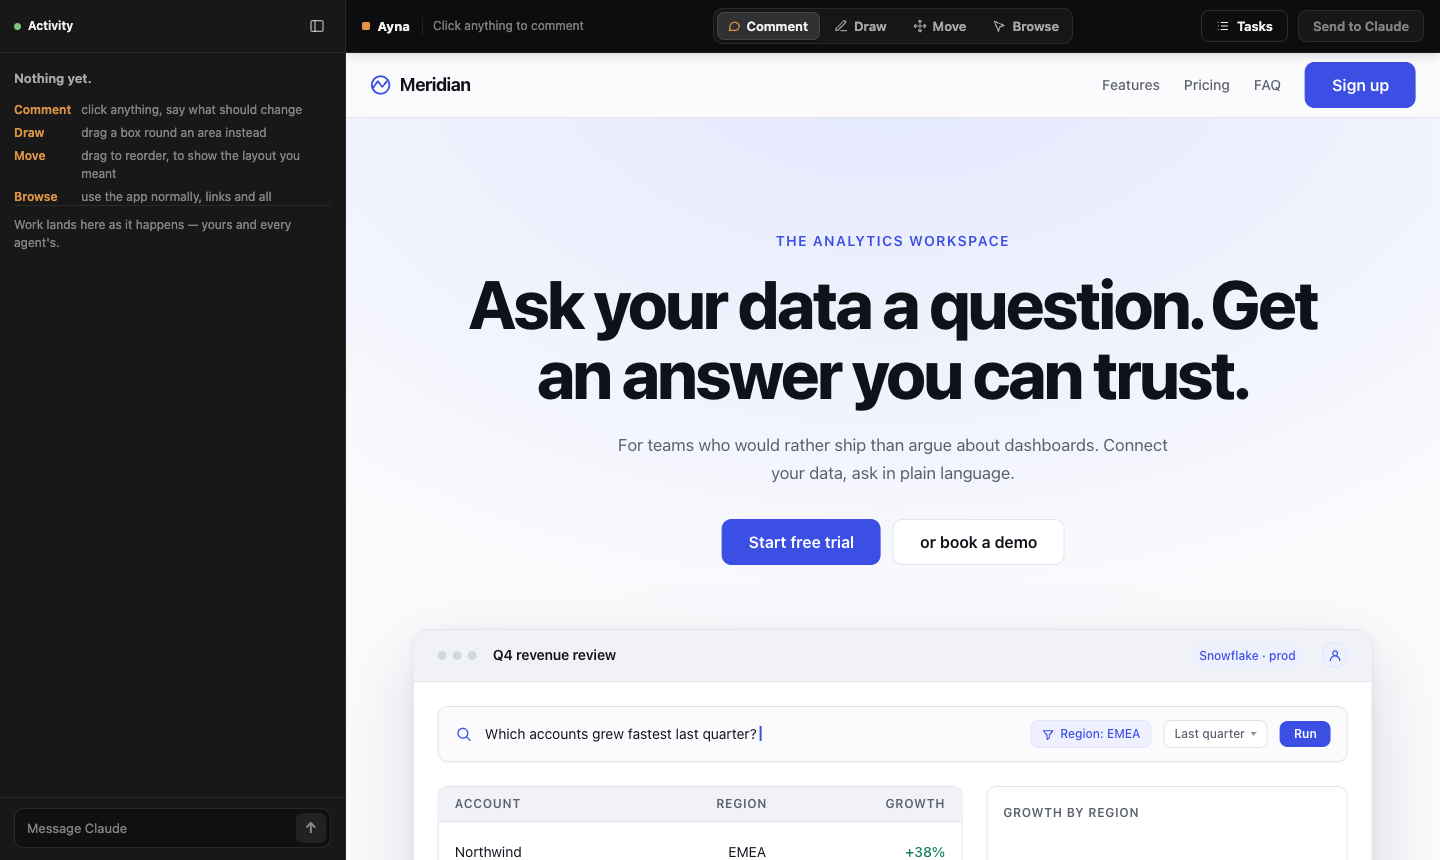
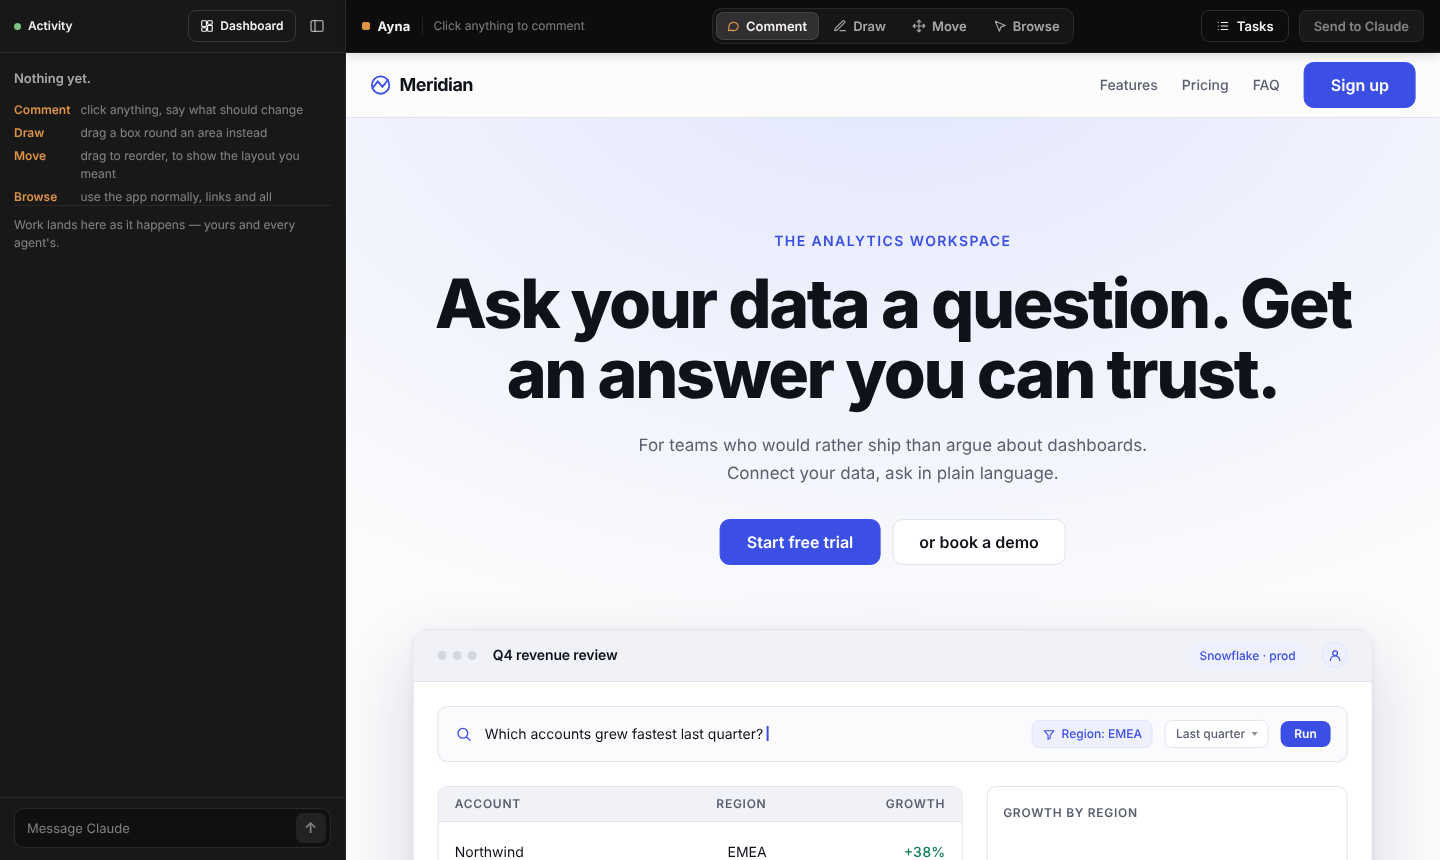
docs: the dashboard in the README, with three screenshots
The README covered `ayna dashboard` in one table row and a short step, and
showed none of it. Now it has a section of its own, in plain words: how to
open it (the review window's button, or the command), what each of its five
views is for, the two themes, and that it only reads. Three screenshots
carry it: the overview, a task sent back shown in the Light theme, and the
activity. Flow 1's step 6 and the intro point there.

The screenshots come from scripts/readme-shots.mjs like the others, out of
the same review the other shots show. The script now gives the two notes a
verdict (one approved, one sent back) and writes the dashboard from that
store. The project folder is named meridian after the demo's product,
because the dashboard puts the project's name across its top. The eight
existing shots were retaken too; they now show the Dashboard button in the
rail.

Taking them showed three things the dashboard got wrong:

- `ayna say` and `ayna preview` record their events under no window, and a
  review window shows every such event in its rail. The dashboard put them
  in a "Between reviews" box instead. It now files an untagged event under
  the window open at the time. A window never marked closed counts as open
  until half an hour after the last thing filed under it, so one that
  crashed does not adopt what is said days later.
- A closed window said so twice ("Review window closed", "Closed the
  review"). The bookkeeper's `tab-closed` is quiet now; the window's own
[…]

diff --git a/README.md b/README.md
@@ -14,6 +14,9 @@ Three ways to use it, and they share one store:
 | **Inspect** | an agent | check one region headlessly, before reporting work done |
 | **Work** | nobody | drain the queue unattended, verifying as it goes |
 
+[The dashboard](#the-dashboard) shows that store as one page: every task,
+wherever it stands.
+
 ---
 
 ## Install
@@ -160,16 +163,8 @@ judge.
 
 ### 6. See the whole project
 
-**Dashboard**, at the top of the activity rail, opens the project's dashboard in
-a tab beside the review: every task wherever it stands, what is stuck and on
-whom, which page is worst, each task's history and each window's rounds as one
-box apiece, and every agent that worked here. It refreshes itself while the
-window is open and comes back to the view you were on. The Tasks list links to
-it too.
-
-`ayna dashboard --open` writes the same page as a snapshot — one static file,
-no server, nothing changed. It comes in two themes, **Ayna** (the window's own)
-and **Light**, and remembers which you chose.
+**Dashboard**, at the top of the activity rail, opens every page's work in a tab
+beside the review — see [The dashboard](#the-dashboard).
 
 ---
 
@@ -256,6 +251,46 @@ yet*.
 
 The brain is any command — `claude -p` by default, Cursor or anything else via
 `brains` in the config.
+
+---
+
+## The dashboard
+
+The review window shows one page. The dashboard shows the whole project, on a
+page of its own: every note from every review, where each one stands, and what
+happened to it.
+
+![The dashboard: what is outstanding, what waits on you, what is stuck, and what happened last](docs/screens/09-dashboard.png)
+
+**Open it** with **Dashboard** at the top of the activity rail, or *All in
+Dashboard ↗* in the Tasks list. It opens in a tab beside the review and keeps
+itself up to date: leave a note or land a round and it refreshes within a few
+seconds, back on the view you were looking at.
+
+Or write it from the terminal — a snapshot in one file, no server needed:
+
+```bash
+ayna dashboard --open
+```
+
+| View | What it shows |
+|---|---|
+| **Overview** | how much is outstanding, what is waiting on you, what is stuck and why, and the latest activity |
+| **Tasks** | every note in a list. Open one to see the crop of what it pointed at, the files it probably lives in, and every status it went through. Filter by open or done, search, or narrow to one page |
+| **Activity** | one box per note telling its story, and one per review window with its rounds, messages, changed files and checks — signed *You*, *Claude* or *Ayna* |
+| **Pages** | which page has the most left to do |
+| **Agents** | every agent session that worked here, including ones that went away |
+
+![A note sent back for another attempt, in the Light theme: the crop, where it lives, and its history](docs/screens/10-dashboard-task.png)
+
+It comes in two themes — **Ayna**, the review window's own, and **Light** — and
+remembers which you chose. Times read the way you would say them: *2 hours
+ago*, *Yesterday at 09:10*.
+
+![The activity: a review window's round, the file Claude changed and what ayna measured, then each note's own history](docs/screens/11-dashboard-activity.png)
+
+The dashboard only reads. It never changes a task, it works offline, and it
+passes ayna's own audit in both themes, on a desktop and on a phone.
 
 ---
 
@@ -431,4 +466,4 @@ demo/               a deliberately mediocre landing page to improve
 
 Plain ESM, no TypeScript, no build step. One dependency: `playwright-core`.
 
-**363 tests.** `npm test`.
+**364 tests.** `npm test`.
